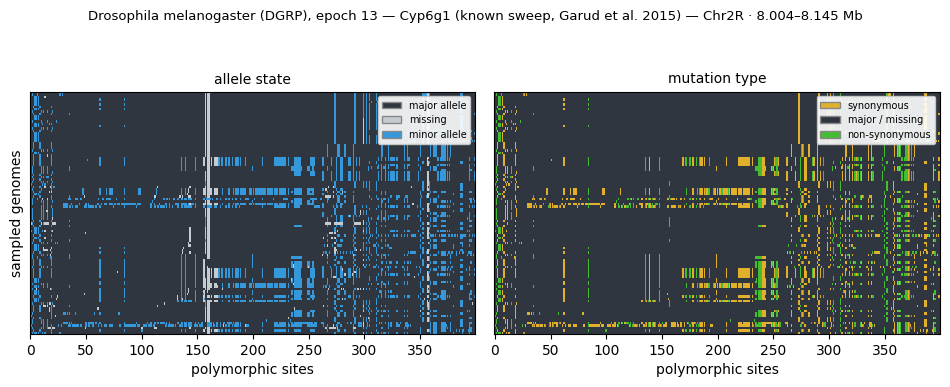
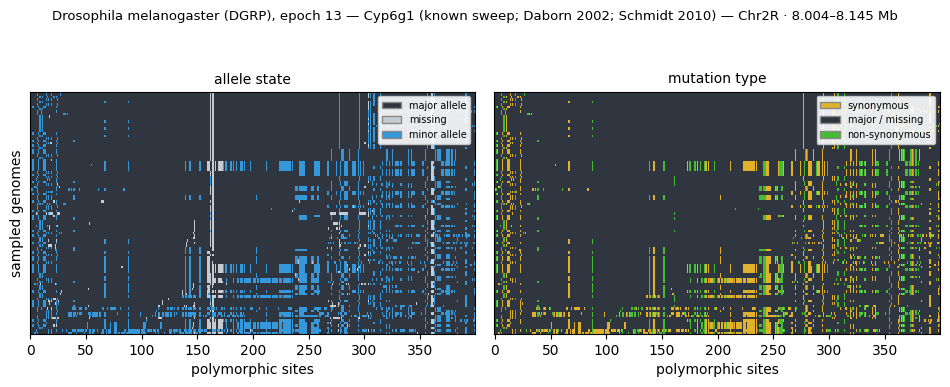
Drosophila known sweeps: label by the literature that established each, fix Cyp6g1 span
Ace (Mutero 1994; Menozzi 2004; Karasov 2010), Cyp6g1 (Daborn 2002; Schmidt 2010),
CHKov1 (Aminetzach 2005; Magwire 2011). Gene spans are Release 5 / dm3 bp from NCBI Gene
(annotation release 5.57); Cyp6g1 is now 2R:8,073,172-8,075,936 (was 8,073,910-8,075,667).
Fezzik (X:14,800,367-14,803,741) is not labelled: the scan covers the autosomal arms only.

diff --git a/build_peaks_json.py b/build_peaks_json.py
@@ -27,8 +27,11 @@ from collections import defaultdict
 SCRIPT_DIR = os.path.dirname(os.path.abspath(__file__))
 DATA_DIR = os.path.join(SCRIPT_DIR, "data")
 SRC_TSV = os.path.join(DATA_DIR, "H12_Peaks", "cropped_s4.tsv")
-# Same columns plus an optional `label` (the band's text). Drosophila: the three strongest DGRP H12 peaks
-# (Garud et al. 2015 PLoS Genet, all soft), gene spans in Release 5 / dm3 bp like the scan.
+# Same columns plus an optional `label` (the band's text). Drosophila: the known sweeps at Ace (Mutero 1994,
+# Menozzi 2004, Karasov 2010), Cyp6g1 (Daborn 2002, Schmidt 2010) and CHKov1 (Aminetzach 2005, Magwire 2011),
+# all soft; gene spans in Release 5 / dm3 bp like the scan (NCBI Gene, annotation release 5.57).
+# Fezzik (fiz, X:14,800,367-14,803,741; Saminadin-Peter 2012, Glaser-Schmitt & Parsch 2018) has no row:
+# the scan covers the autosomal arms only, and a row on a contig missing from the manifest is skipped.
 EXTRA_TSVS = [os.path.join(DATA_DIR, "H12_Peaks", "drosophila_known_sweeps.tsv")]
 OUT_JSON = os.path.join(DATA_DIR, "peaks.json")
 
